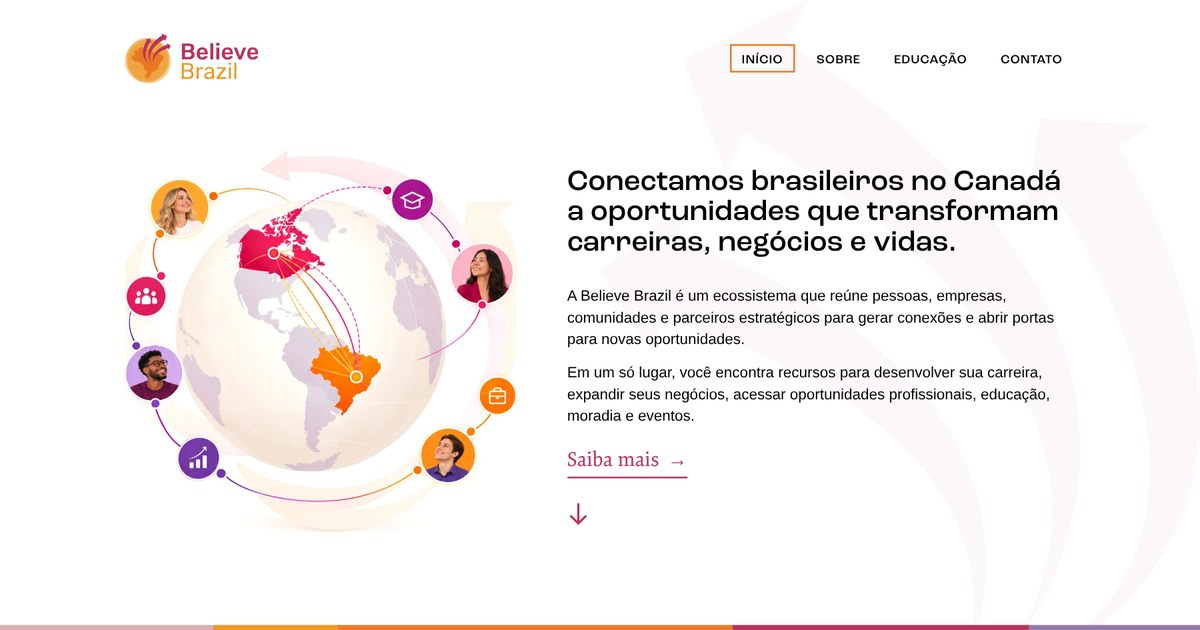
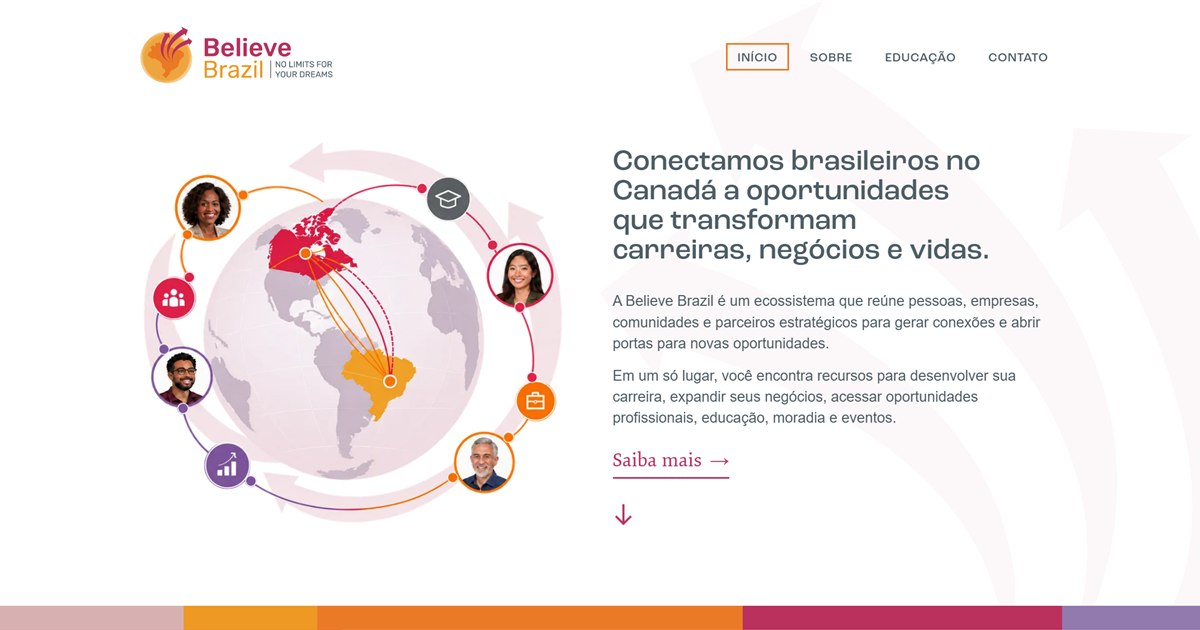
Add sitemap and robots.txt; refresh OG image
Generate sitemap.xml from the site's pages via a Claude Code hook, and
use an absolute og:image URL so social crawlers can load the new image.

diff --git a/scripts/build-sitemap.js b/scripts/build-sitemap.js
@@ -1,0 +1,41 @@
+// Gera sitemap.xml a partir das páginas .html do site.
+// Páginas 404 ou com <meta name="robots" content="noindex"> ficam de fora.
+const fs = require('fs');
+const path = require('path');
+
+const root = path.join(__dirname, '..');
+const domain = fs.readFileSync(path.join(root, 'CNAME'), 'utf8').trim();
+const skipDirs = new Set(['assets', 'scripts', 'node_modules']);
+
+function findPages(dir) {
+  return fs.readdirSync(dir, { withFileTypes: true }).flatMap(function (entry) {
+    const full = path.join(dir, entry.name);
+    if (entry.isDirectory()) {
+      return entry.name.startsWith('.') || skipDirs.has(entry.name) ? [] : findPages(full);
+    }
+    return entry.name.endsWith('.html') ? [full] : [];
+  });
+}
+
+function isIndexable(file) {
+  if (path.basename(file) === '404.html') return false;
+  return !/<meta[^>]+name=["']robots["'][^>]+noindex/i.test(fs.readFileSync(file, 'utf8'));
+}
+
+function toUrl(file) {
+  const rel = path.relative(root, file).split(path.sep).map(encodeURIComponent).join('/');
+  return 'https://' + domain + '/' + rel.replace(/(^|\/)index\.html$/, '$1');
+}
+
+const urls = findPages(root).filter(isIndexable).map(toUrl).sort(function (a, b) {
+  return a.length - b.length || a.localeCompare(b);
+});
+
+const xml = '<?xml version="1.0" encoding="UTF-8"?>\n'
+  + '<urlset xmlns="http://www.sitemaps.org/schemas/sitemap/0.9">\n'
+  + urls.map(function (u) { return '  <url><loc>' + u + '</loc></url>\n'; }).join('')
+  + '</urlset>\n';
+
+// Só grava se mudou, para não gerar diffs à toa
+const target = path.join(root, 'sitemap.xml');
+if (!fs.existsSync(target) || fs.readFileSync(target, 'utf8') !== xml) fs.writeFileSync(target, xml);

diff --git a/index.html b/index.html
@@ -9,7 +9,7 @@
 <meta property="og:site_name" content="Believe Brazil">
 <meta property="og:title" content="Believe Brazil - Carreira e Negócios no Canadá">
 <meta property="og:description" content="A Believe Brazil é um ecossistema que reúne pessoas, empresas, comunidades e parceiros estratégicos para gerar conexões e abrir portas para novas oportunidades.">
-<meta property="og:image" content="assets/og-image.jpg">
+<meta property="og:image" content="https://believebrazil.com/assets/og-image.jpg">
 <meta property="og:image:width" content="1200">
 <meta property="og:image:height" content="630">
 <meta name="twitter:card" content="summary_large_image">

diff --git a/unigran.html b/unigran.html
@@ -9,7 +9,7 @@
 <meta property="og:site_name" content="Believe Brazil">
 <meta property="og:title" content="Believe Brazil - UNIGRAN Américas - Graduação EAD">
 <meta property="og:description" content="Estude na UNIGRAN Américas, universidade brasileira com graduação EAD, graduação presencial, pós-graduação e cursos livres.">
-<meta property="og:image" content="assets/og-image.jpg">
+<meta property="og:image" content="https://believebrazil.com/assets/og-image.jpg">
 <meta property="og:image:width" content="1200">
 <meta property="og:image:height" content="630">
 <meta name="twitter:card" content="summary_large_image">

diff --git a/sobre.html b/sobre.html
@@ -9,7 +9,7 @@
 <meta property="og:site_name" content="Believe Brazil">
 <meta property="og:title" content="Believe Brazil - Tatiane Defácio - Missão e Trajetória">
 <meta property="og:description" content="Nossa missão é conectar brasileiros no Canadá a oportunidades reais para crescer na carreira e nos negócios.">
-<meta property="og:image" content="assets/og-image.jpg">
+<meta property="og:image" content="https://believebrazil.com/assets/og-image.jpg">
 <meta property="og:image:width" content="1200">
 <meta property="og:image:height" content="630">
 <meta name="twitter:card" content="summary_large_image">
